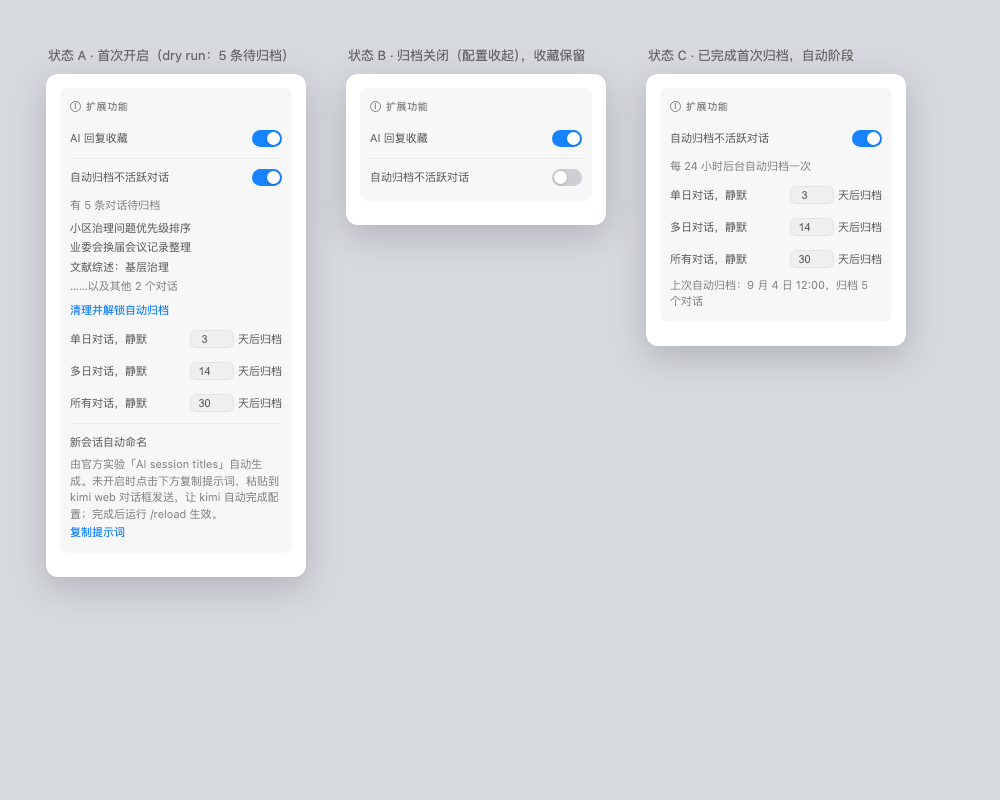
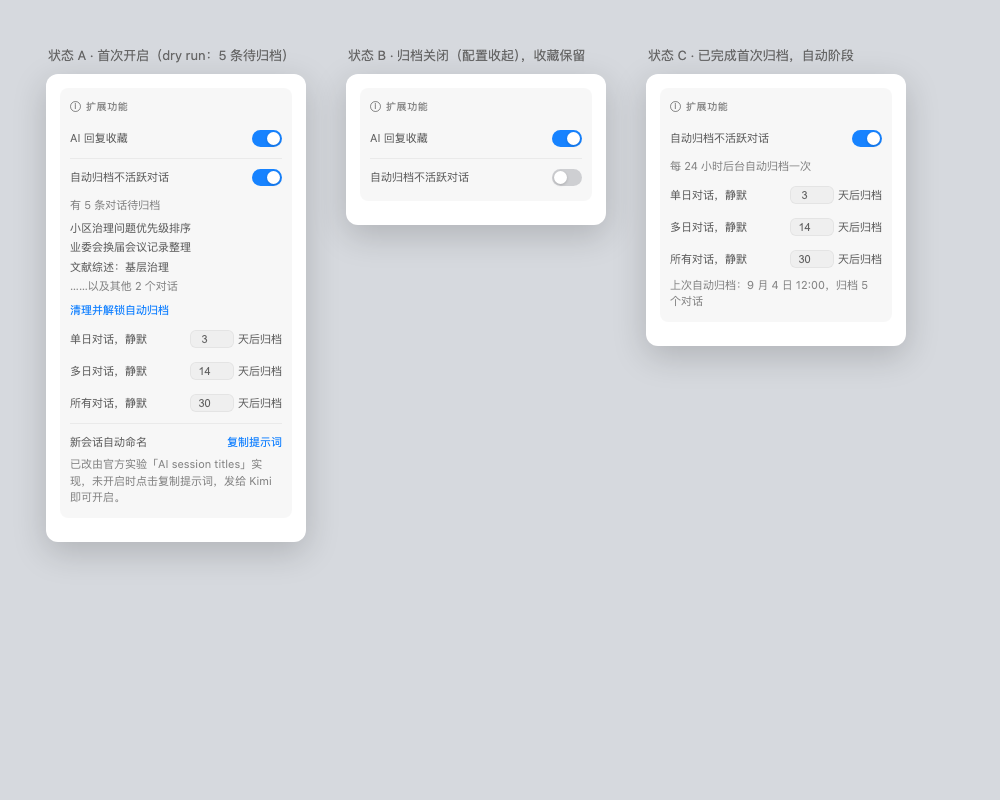
自动命名入口精简：复制提示词与标题同行右对齐，说明一句话
- 「复制提示词」移入子块标题行右对齐（蓝色文字，视觉上非按钮）
- 说明精简为一句话：已改由官方实验实现，未开启时复制提示词发给 Kimi 即可
- 子块标题字号与「添加账户」（.ext-name/button.action）同为 11px，保持一致

测试 232 通过。

Changed region(s): [[0.031, 0.5312, 0.31, 0.75]]

diff --git a/src/i18n.js b/src/i18n.js
@@ -293,7 +293,7 @@ const EN = {
   '天后归档': 'days → archive',
   '没有符合条件的对话': 'No sessions match the rules',
   '点击解锁自动归档': 'Click to unlock auto-archive',
-  '由官方实验「AI session titles」自动生成。未开启时点击下方复制提示词，粘贴到 kimi web 对话框发送，让 kimi 自动完成配置；完成后运行 /reload 生效。': 'Generated by the official Kimi CLI experiment "AI session titles". If it is not enabled yet, click below to copy a prompt and paste it into the kimi web chat — kimi will update the config for you; run /reload afterwards to apply.',
+  '已改由官方实验「AI session titles」实现，未开启时点击复制提示词，发给 Kimi 即可开启。': 'Now powered by the official Kimi CLI experiment "AI session titles". If it is not enabled yet, click Copy prompt and send it to Kimi to switch on.',
   '复制提示词': 'Copy prompt',
   '已复制，粘贴到 kimi 对话框发送即可': 'Copied — paste it into the kimi chat and send',
   '复制失败，请手动操作': 'Copy failed — please copy manually',

diff --git a/docs/extensions-card-mockup.html b/docs/extensions-card-mockup.html
@@ -104,9 +104,9 @@
           <div class="ext-block on">
             <div class="ext-block-head">
               <span class="usage-title">新会话自动命名</span>
+              <button type="button" class="action tidy-unlock-btn" style="border:none;background:none;padding:0;font-size:11px;">复制提示词</button>
             </div>
-            <p class="ext-block-sub">由官方实验「AI session titles」自动生成。未开启时点击下方复制提示词，粘贴到 kimi web 对话框发送，让 kimi 自动完成配置；完成后运行 /reload 生效。</p>
-            <button type="button" class="action tidy-unlock-btn" style="border:none;background:none;padding:0;text-align:left;font-size:11px;">复制提示词</button>
+            <p class="ext-block-sub">已改由官方实验「AI session titles」实现，未开启时点击复制提示词，发给 Kimi 即可开启。</p>
           </div>
 
         </div>

diff --git a/popup.html b/popup.html
@@ -167,9 +167,9 @@
       <div class="ext-block on" id="ext-rename-block">
         <div class="ext-block-head">
           <span class="usage-title">新会话自动命名</span>
+          <button type="button" class="copy-prompt-link" id="rename-copy-prompt">复制提示词</button>
         </div>
-        <p class="ext-block-sub">由官方实验「AI session titles」自动生成。未开启时点击下方复制提示词，粘贴到 kimi web 对话框发送，让 kimi 自动完成配置；完成后运行 /reload 生效。</p>
-        <button type="button" class="copy-prompt-link" id="rename-copy-prompt">复制提示词</button>
+        <p class="ext-block-sub">已改由官方实验「AI session titles」实现，未开启时点击复制提示词，发给 Kimi 即可开启。</p>
       </div>
 
     </div>
